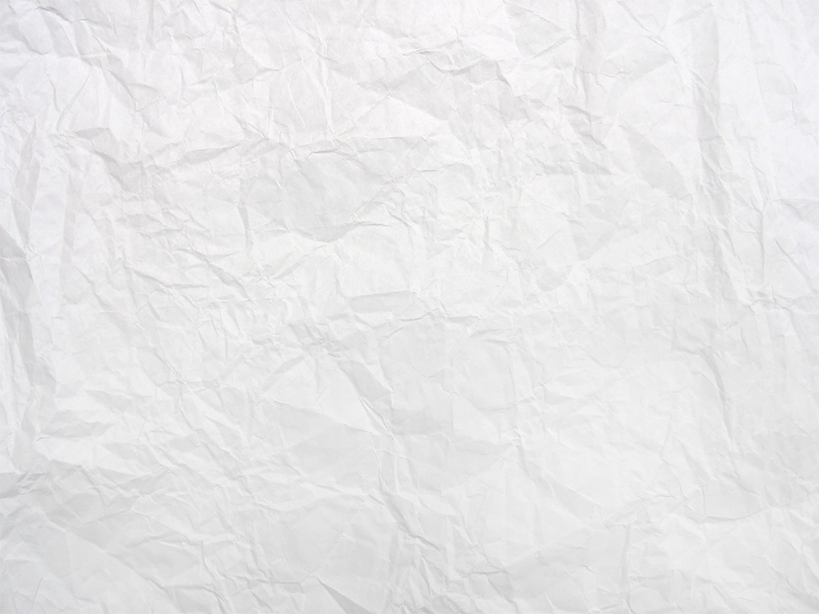
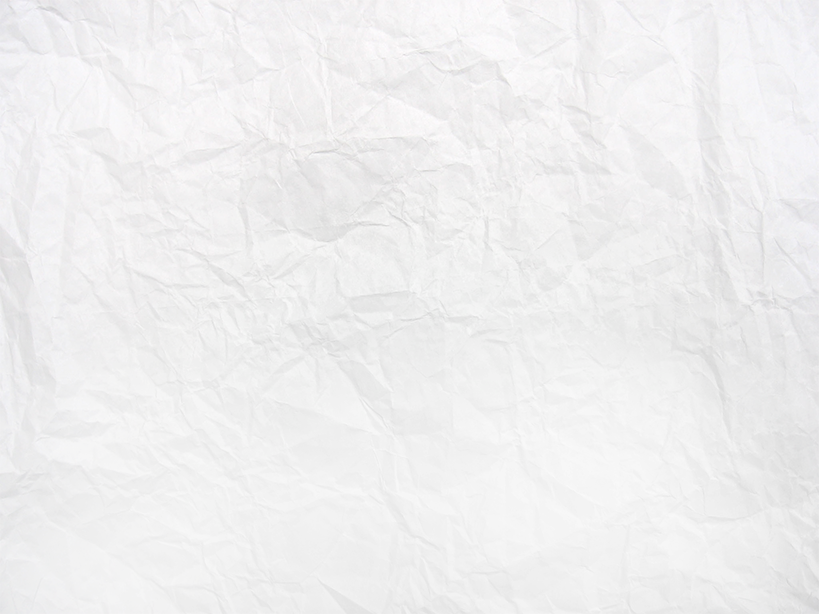
added ending

diff --git a/css/app.css b/css/app.css
@@ -1,10 +1,13 @@
+#body{
+  background-color: #ffffff;
+}
 #background{
   /*border:2px solid #000000;*/
   width:768px;
   height:10000px;
   margin:0 auto;
   position:relative;
-  /*background-image:url("../images/paper.png");*/
+  background-image:url("../images/paper.png");
 
 }
 #heading{
@@ -84,7 +87,7 @@ left:0px;
   height:300px;
   position:absolute;
    top:2400px;
-   left:0px;
+   left:100px;
 }
 
 #waving{
@@ -181,12 +184,97 @@ top:6210px;
 z-index:2;
 }
 
-/*rin escaping the cat*/
+/*////////////////////*rin escaping the cat*/
+/*//////////1st tile*/
 #escape{
   width:300px;
   height:300px;
   position:absolute;
-  left:-1200px;
+  left:-2000px;
   top:6500px;
   z-index:3;
+}
+/*///////////2nd tile*/
+#escape2{
+  transform:scaleX(-1);
+  width:300px;
+  height:300px;
+  position:absolute;
+  left:-2000px;
+  top:7500px;
+  z-index:5;
+}
+#escapeBackground{
+  width:300px;
+  height:150px;
+  left:100px;
+  position:absolute;
+  top:7500px;
+  z-index:1;
+}
+#grass4{
+  width:150px;
+  height:200px;
+  position:absolute;
+  top:7500px;
+  z-index:2;
+  left:50px;
+}
+#plant2{
+  width:150px;
+  height:300px;
+  left:0px;
+  position:absolute;
+  top:7410px;
+  z-index:3;
+}
+/*grass on far right*/
+#grass5{
+  width:100px;
+  height:150px;
+  left:500px;
+  position:absolute;
+  top:7500px;
+  z-index:2;
+}
+
+#rock4{
+  width:150px;
+  height:100px;
+  left:400px;
+  position:absolute;
+  top:7600px;
+  z-index:3;
+}
+
+/*duck eats Rinrin*/
+#stickyRin{
+  width:200px;
+  height:300px;
+  position:absolute;
+  top:8300px;
+  left:200px;
+  z-index:2;
+}
+#duck{
+  width:700px;
+  height:700px;
+  position:absolute;
+  top:8800px;
+  z-index:3;
+}
+#beak{
+  width:540px;
+  height:310px;
+  position:absolute;
+  top:8880px;
+  left:200px;
+  z-index:1;
+}
+#end{
+  width:768px;
+  height:500px;
+  position:absolute;
+  top:9700px;
+  z-index:10;
 }

diff --git a/js/app.js b/js/app.js
@@ -8,6 +8,9 @@ var grassMouse = document.getElementById("grassMouse");
 var waving = document.getElementById("waving");
 var shocked = document.getElementById("shocked");
 var escape = document.getElementById("escape");
+var escapeBackground = document.getElementById("escapeBackground");
+var rock4 = document.getElementById("rock4");
+var stickyRin = document.getElementById("stickyRin");
 window.onscroll = function(){
 
       var y = window.pageYOffset;
@@ -18,7 +21,6 @@ window.onscroll = function(){
 
 ////////////this makes Rinrin run across screen
         trippingRin.style.left =200 + y *.30 + "px";
-
 
 
       /////////////Rinrin and Mouse meet--PARALLAX////
@@ -67,11 +69,27 @@ window.onscroll = function(){
      stickyCat.style.opacity = 1;
      }
 
-     // this moves Rinrin across screen in front of Cat
-           // shocked.style.left = - 2000 + y *.50 + "px";
 
-    ////////this moves rin across as he escaped from cat
+    ////////this moves Rinin across from the left as he escapes from cat
       escape.style.left = -2000 + y *.35 + "px";
 
+//////////this moves Rinrin across from the right
+      escape2.style.left = 2800 - y *.35 + "px";
+//////////this moves background across from the left
+      escapeBackground.style.left =-600 + y *.10 + "px";
+      grass5.style.left = 2000 - y *.20 + "px";
+      rock4.style.left = 2000 - y *.20 + "px";
+
+      // Rinrin sticks to the top of viewport, to his inevitable doom
+      if(y > 8300){
+      stickyRin.style.top = y + "px";
+    }else{
+      stickyRin.style.top = "8300px";
+    }
+    if( y > 9200){
+   stickyRin.style.opacity = 0;
+   }else {
+   stickyRin.style.opacity = 1;
+   }
 
 }

diff --git a/index.html b/index.html
@@ -9,7 +9,7 @@
     <link re="stylesheet" href="css/foundation.css">
   </head>
   <body>
-<div id="background">
+  <div id="background">
 
   <div>
   <img src="images/heading.png" id="heading">
@@ -51,21 +51,36 @@
 <!-- the cat that's about to kill them -->
 <img src="images/cat.png" id="stickyCat">
 
-<!-- rin is shocked -->
+<!-- Rinrin is shocked -->
 <img src="images/shocked.png" id="shocked">
 
-<!-- background props behind escaping rin -->
+<!-- background props behind 'escaping rin' -->
 <img src="images/grass.png" id="grass2">
 <img src="images/grass.png" id="grass3">
 <img src="images/rock.png" id="rock2">
 <img src="images/rock.png" id="rock3">
 <img src="images/flower.png" id="plant">
 
-<!-- rin escaping the cat -->
+<!-- 'escaping Rinrin', runs away from the cat -->
 <img src="images/runningRin.png" id="escape">
+<img src="images/runningRin.png" id="escape2">
 
+<!-- second tile for 'escaping Rinrin' -->
+<img src="images/ladyratHouse_closed.png" id="escapeBackground">
+<img src="images/grass.png" id="grass4">
+<img src="images/flower.png" id="plant2">
+<img src="images/grass.png" id="grass5">
+<img src="images/rock.png" id="rock4">
 
+<!-- duck eats Rinrin -->
+<img src="images/escape_top.png" id="stickyRin">
 
+<!-- duck -->
+<img src="images/duck.png" id="duck">
+<img src="images/duckBeak.png" id="beak">
+
+<!-- end -->
+<img src="images/end.png" id="end">
 
 
 
@@ -73,6 +88,7 @@
 
 
 </div>
+
   <script src="js/app.js"></script>
 </body>
 </html>
